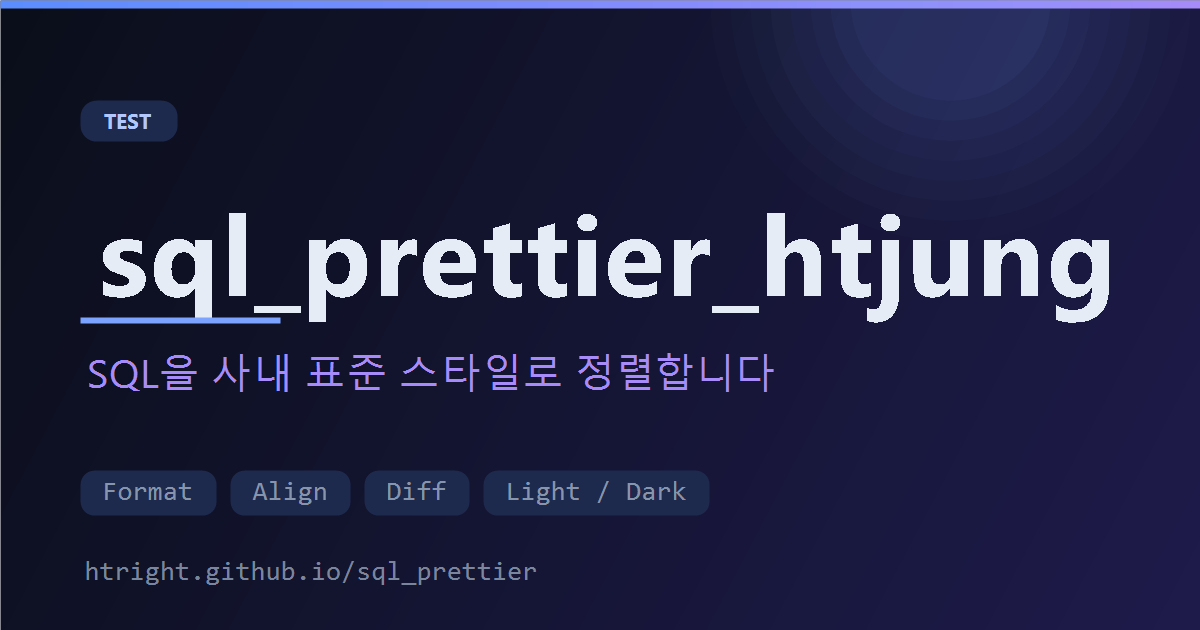
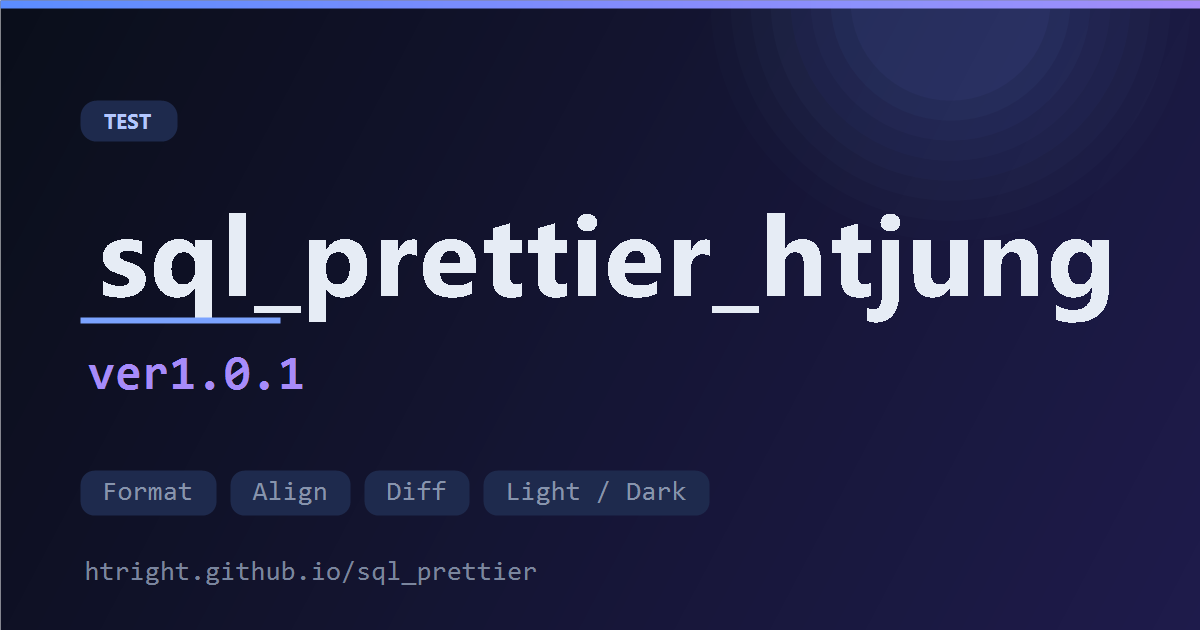
Replace tagline with ver1.0.1 in page and OG image

Changed region(s): [[0.0617, 0.5429, 0.6475, 0.6333]]

diff --git a/index.html b/index.html
@@ -637,7 +637,7 @@
       <div class="topbar">
         <div class="title">
           <h1>sql_prettier_htjung</h1>
-          <p>SQL 코드를 사내 표준 스타일로 정렬합니다.</p>
+          <p>ver1.0.1</p>
           <div class="badge">test</div>
         </div>
         <div